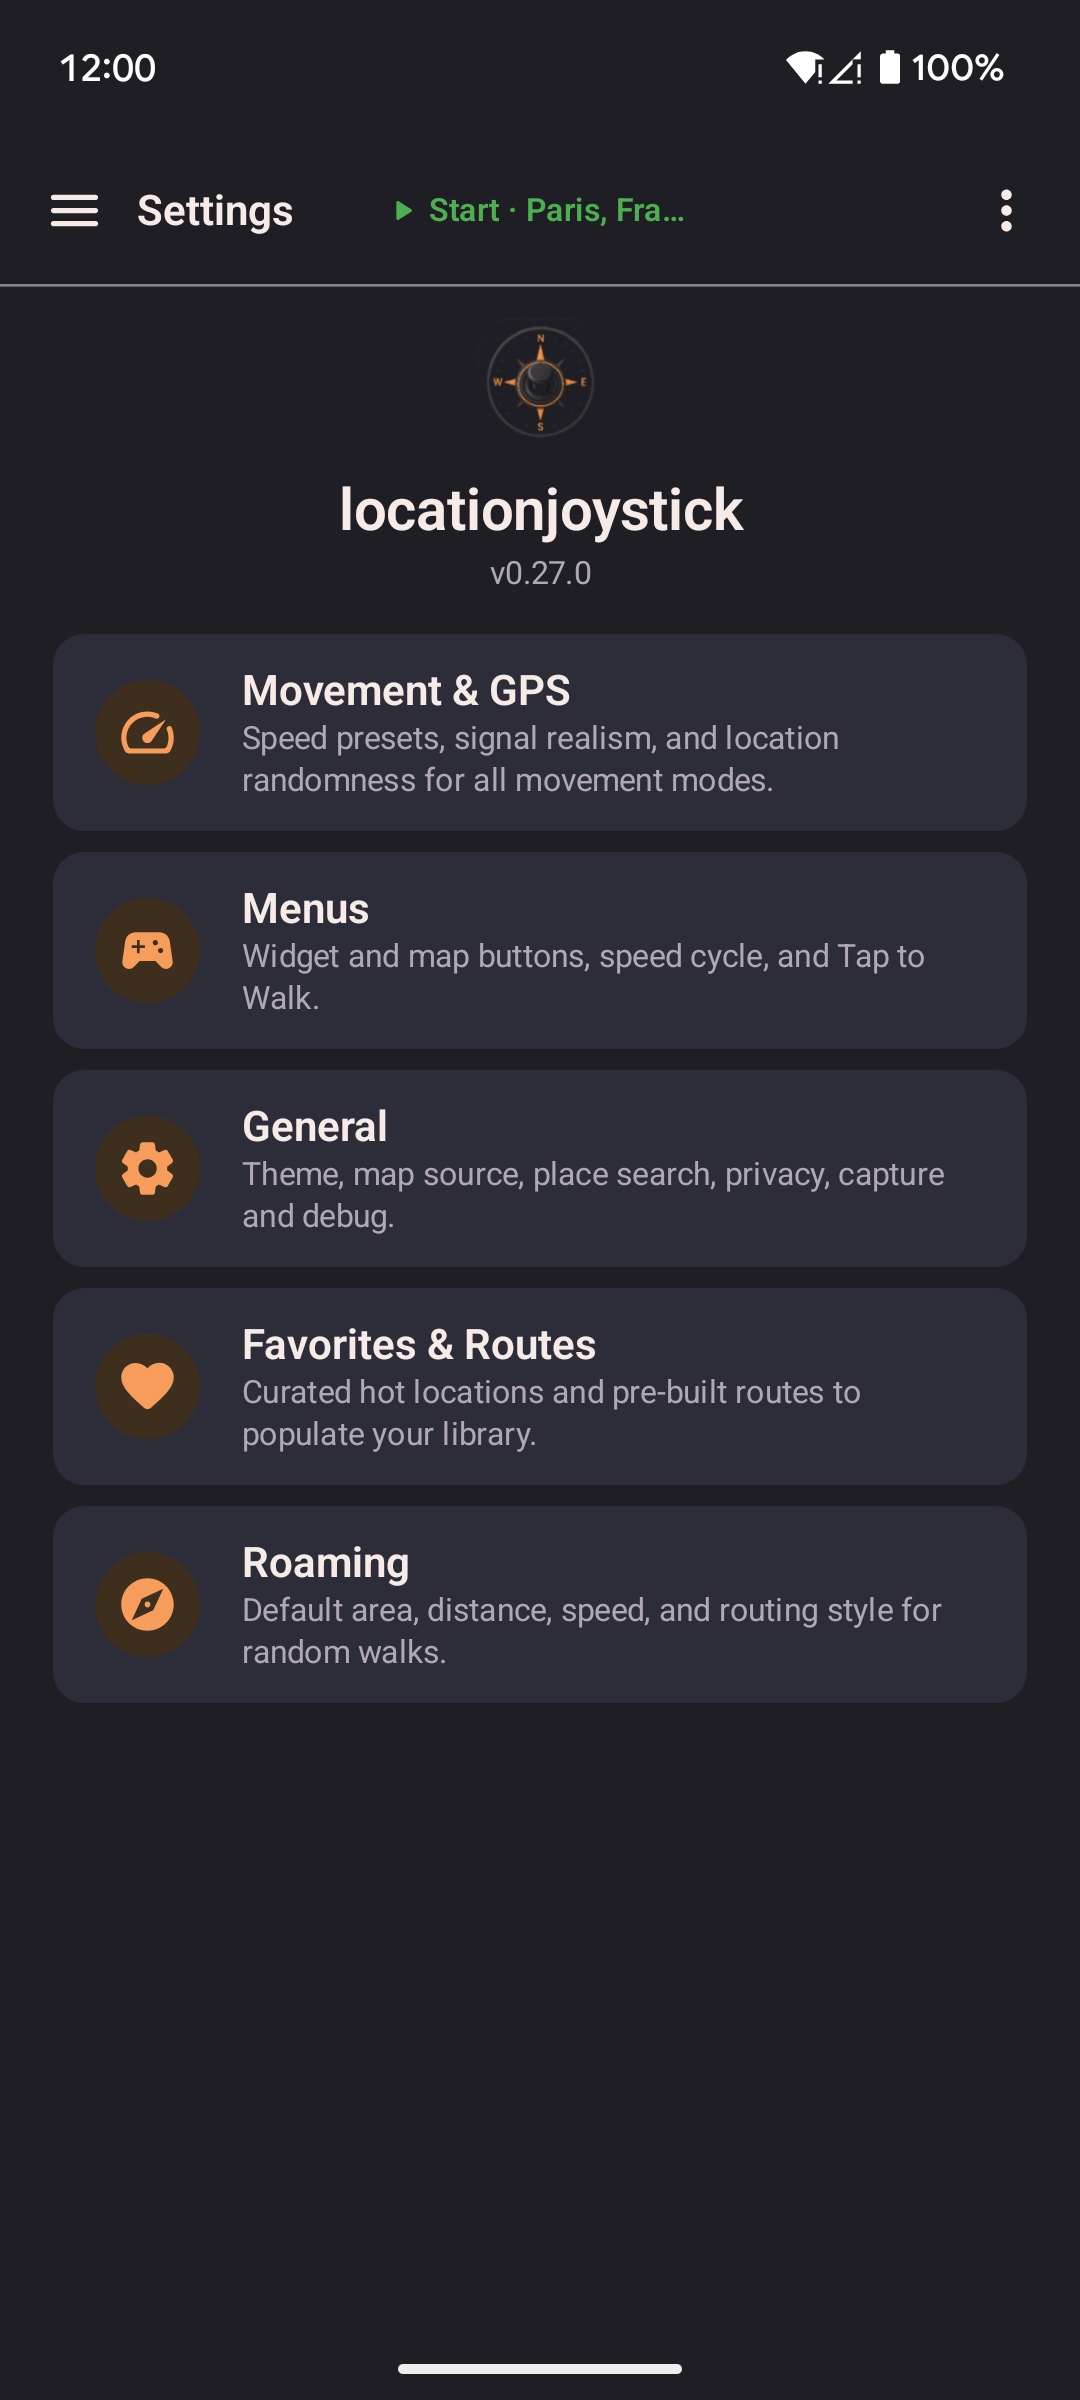
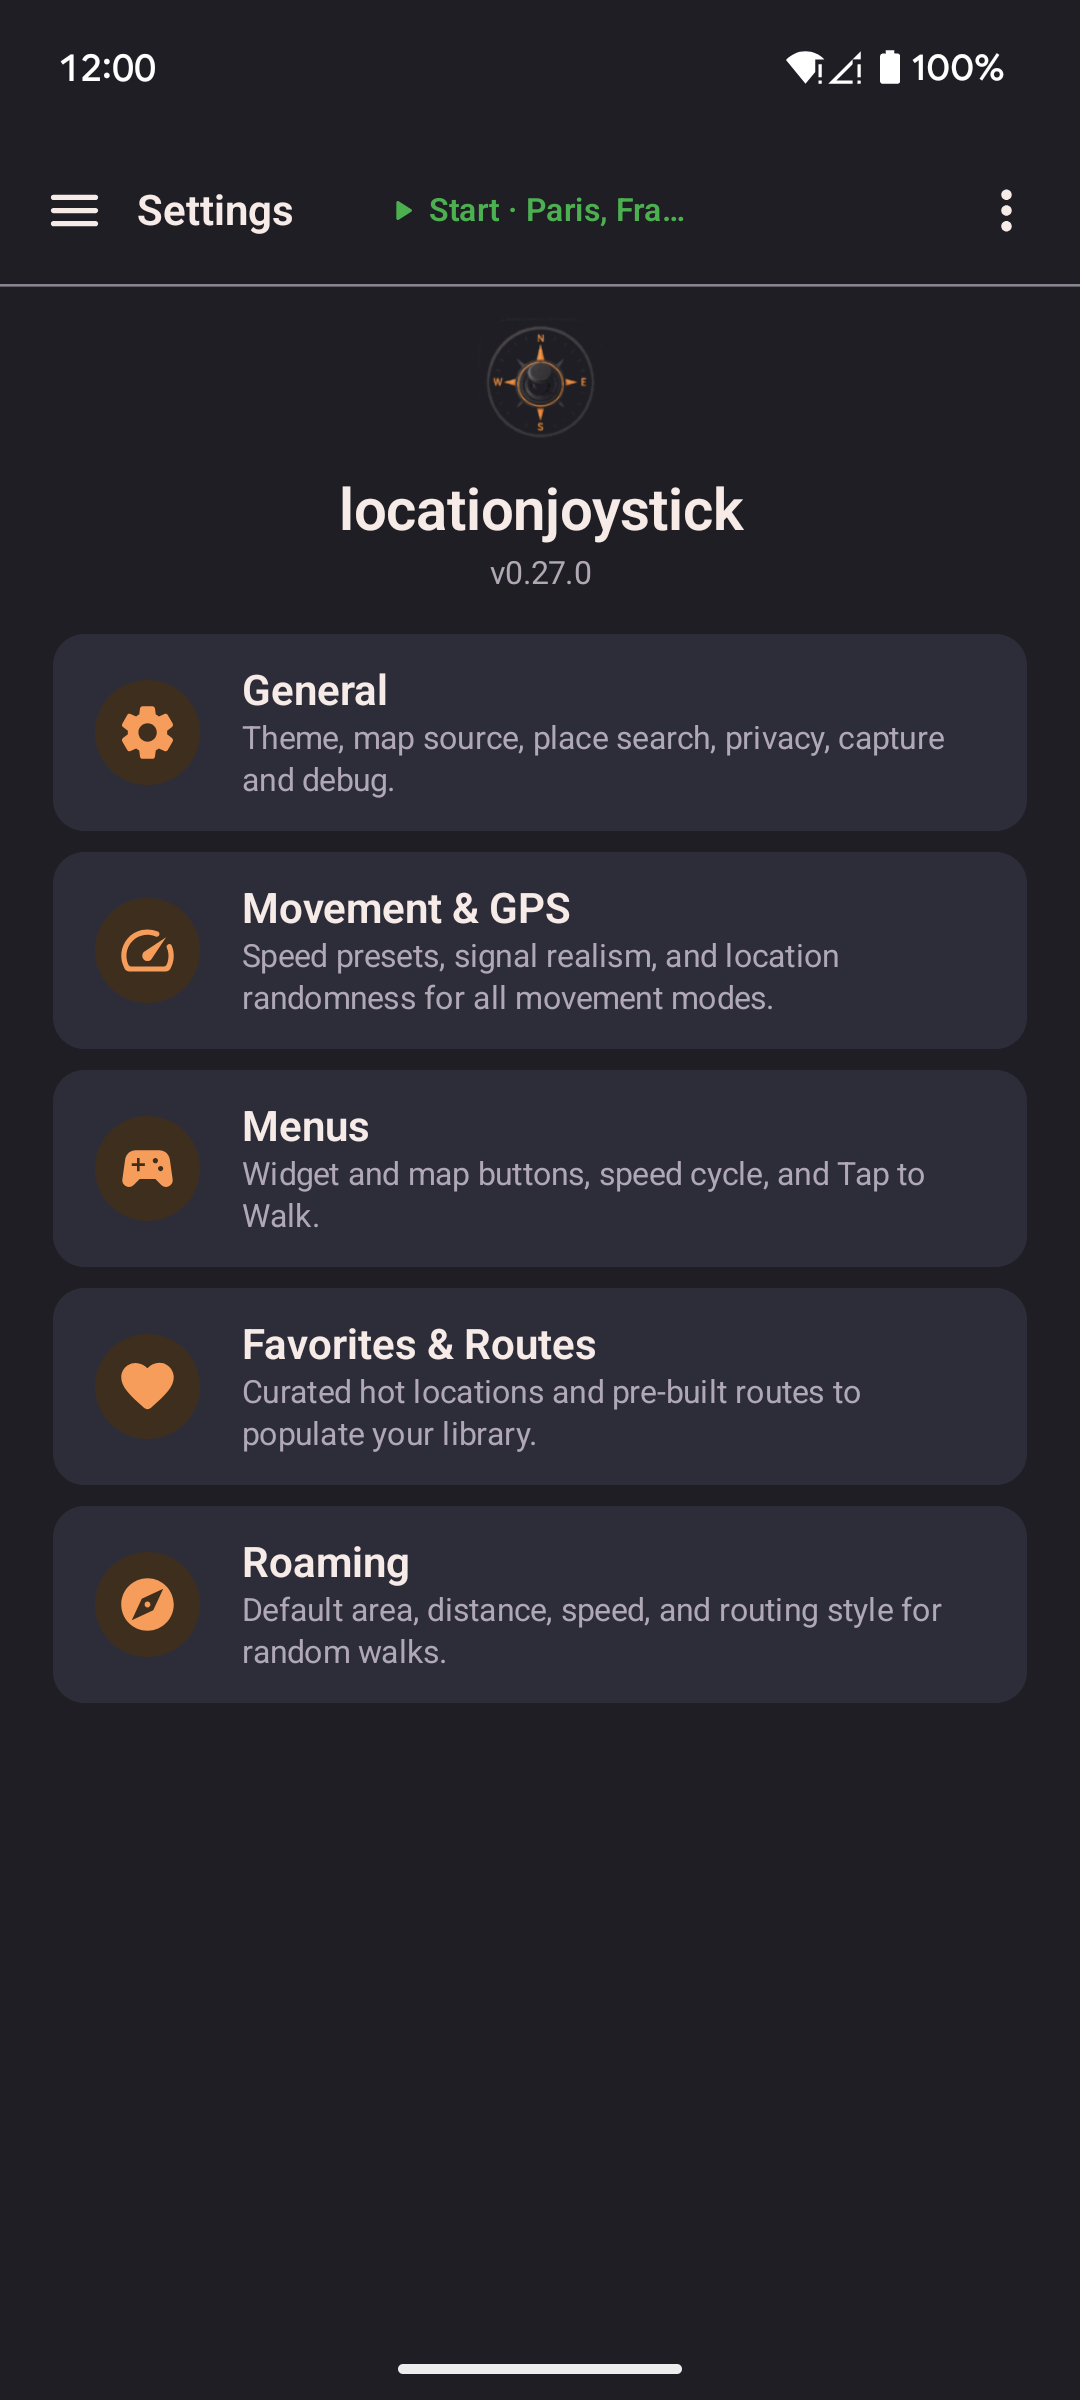
fix(settings): show General first in settings hub
Hub order is now General, Movement & GPS, Menus, Favorites & Routes,
Roaming. Wiki settings page and the step 05 screenshots follow the same
order. Adds a smoke test that pins the card order.

diff --git a/docs/wiki/settings.html b/docs/wiki/settings.html
@@ -31,6 +31,62 @@
     </aside>
     <p>Every setting, grouped as in the app. Export, import, and reset are on <a href="backup-transfer.html">Backup &amp; Transfer</a>. For permission problems, see <a href="troubleshooting.html">Troubleshooting</a>.</p>
 
+    <h2 id="general">General</h2>
+
+    <h3 id="game-setup">Game setup</h3>
+
+    <h4 class="item" id="game-setup-choose-your-game">Choose your game</h4>
+    <p><strong>Default:</strong> Default, or the setup you picked during first setup</p>
+    <p>Hides the features your game does not need. Pick Default, Pokémon Go or Pikmin Bloom. See <a href="game-setup.html">Game setup</a>.</p>
+
+    <h3 id="appearance">Appearance</h3>
+
+    <h4 class="item" id="appearance-light-mode">Light mode</h4>
+    <p><strong>Default:</strong> Off</p>
+    <p>Switches the app and widget lists from dark to bright. Overlay buttons stay dark.</p>
+
+    <h3 id="map-source">Map source</h3>
+
+    <h4 class="item" id="map-source-map-source">Map source</h4>
+    <p><strong>Default:</strong> OpenStreetMap</p>
+    <p>OpenStreetMap or Amap (高德). Amap is faster in mainland China. The app corrects its coordinate shift automatically.</p>
+
+    <h3 id="place-search">Place search</h3>
+    <p>At least one service must stay on. If one cannot be reached, the app tries the next one that is on.</p>
+
+    <h4 class="item" id="place-search-nominatim-openstreetmap">Nominatim (OpenStreetMap)</h4>
+    <p><strong>Default:</strong> On</p>
+    <p>The main search service. Turn it off if it is blocked where you are. A service that fails is skipped for 10 minutes.</p>
+    <h4 class="item" id="place-search-photon-komoot">Photon (Komoot)</h4>
+    <p><strong>Default:</strong> On</p>
+    <p>The backup search service. Works well from mainland China.</p>
+
+    <h3 id="privacy-menus">Privacy</h3>
+
+    <h4 class="item" id="hide-teleport">Hide teleport features</h4>
+    <p><strong>Default:</strong> Off</p>
+    <p>Removes every "jump to location" option: map, favorites, routes, Group Sync, and paste. Routes walk to the first stop instead.</p>
+    <h4 class="item" id="hide-widget">Hide floating widget</h4>
+    <p><strong>Default:</strong> Off</p>
+    <p>Keeps the widget button off the screen while spoofing is on. Other overlays keep working.</p>
+    <h4 class="item" id="hide-notification">Hide notification icon</h4>
+    <p><strong>Default:</strong> Off</p>
+    <p>Removes the "Mock location active" status bar icon. The notification stays in the shade (Android requires it).</p>
+    <h4 class="item" id="quick-walk-setting">Floating map quick walk</h4>
+    <p><strong>Default:</strong> Off</p>
+    <p>A tap on the floating map walks there at once, with no popup. See <a href="overlays.html#floating-map-quick-walk">Overlays</a>.</p>
+
+    <h3 id="capture">Capture</h3>
+    <p>Capture setup, the on/off switch, the browser choice, and the app to open after a map link. See <a href="capture.html#set-up-capture">Capture</a> for each step.</p>
+
+    <section class="has-shot">
+    <h3 id="debug-stats">Debug stats</h3>
+    <aside class="shot" id="debug-stats-shot">
+      <img class="phone-shot" src="screenshots/18_debug_stats.png" alt="Debug stats shown in the floating widget panel">
+    </aside>
+      <p>Shows coordinates, speed, altitude, accuracy, heading, and update rate in the expanded widget. Off by default.</p>
+    </section>
+
     <h2 id="speed-profiles">Movement &amp; GPS</h2>
 
     <h3 id="speed-profiles-list">Speed profiles</h3>
@@ -112,62 +168,6 @@
     <h4 class="item" id="location-memory-remember-last-location">Remember last location</h4>
     <p><strong>Default:</strong> On</p>
     <p>Restores your last fake position when you reopen the app. Starts from your real location if nothing is saved.</p>
-    </section>
-
-    <h2 id="general">General</h2>
-
-    <h3 id="game-setup">Game setup</h3>
-
-    <h4 class="item" id="game-setup-choose-your-game">Choose your game</h4>
-    <p><strong>Default:</strong> Default, or the setup you picked during first setup</p>
-    <p>Hides the features your game does not need. Pick Default, Pokémon Go or Pikmin Bloom. See <a href="game-setup.html">Game setup</a>.</p>
-
-    <h3 id="appearance">Appearance</h3>
-
-    <h4 class="item" id="appearance-light-mode">Light mode</h4>
-    <p><strong>Default:</strong> Off</p>
-    <p>Switches the app and widget lists from dark to bright. Overlay buttons stay dark.</p>
-
-    <h3 id="map-source">Map source</h3>
-
-    <h4 class="item" id="map-source-map-source">Map source</h4>
-    <p><strong>Default:</strong> OpenStreetMap</p>
-    <p>OpenStreetMap or Amap (高德). Amap is faster in mainland China. The app corrects its coordinate shift automatically.</p>
-
-    <h3 id="place-search">Place search</h3>
-    <p>At least one service must stay on. If one cannot be reached, the app tries the next one that is on.</p>
-
-    <h4 class="item" id="place-search-nominatim-openstreetmap">Nominatim (OpenStreetMap)</h4>
-    <p><strong>Default:</strong> On</p>
-    <p>The main search service. Turn it off if it is blocked where you are. A service that fails is skipped for 10 minutes.</p>
-    <h4 class="item" id="place-search-photon-komoot">Photon (Komoot)</h4>
-    <p><strong>Default:</strong> On</p>
-    <p>The backup search service. Works well from mainland China.</p>
-
-    <h3 id="privacy-menus">Privacy</h3>
-
-    <h4 class="item" id="hide-teleport">Hide teleport features</h4>
-    <p><strong>Default:</strong> Off</p>
-    <p>Removes every "jump to location" option: map, favorites, routes, Group Sync, and paste. Routes walk to the first stop instead.</p>
-    <h4 class="item" id="hide-widget">Hide floating widget</h4>
-    <p><strong>Default:</strong> Off</p>
-    <p>Keeps the widget button off the screen while spoofing is on. Other overlays keep working.</p>
-    <h4 class="item" id="hide-notification">Hide notification icon</h4>
-    <p><strong>Default:</strong> Off</p>
-    <p>Removes the "Mock location active" status bar icon. The notification stays in the shade (Android requires it).</p>
-    <h4 class="item" id="quick-walk-setting">Floating map quick walk</h4>
-    <p><strong>Default:</strong> Off</p>
-    <p>A tap on the floating map walks there at once, with no popup. See <a href="overlays.html#floating-map-quick-walk">Overlays</a>.</p>
-
-    <h3 id="capture">Capture</h3>
-    <p>Capture setup, the on/off switch, the browser choice, and the app to open after a map link. See <a href="capture.html#set-up-capture">Capture</a> for each step.</p>
-
-    <section class="has-shot">
-    <h3 id="debug-stats">Debug stats</h3>
-    <aside class="shot" id="debug-stats-shot">
-      <img class="phone-shot" src="screenshots/18_debug_stats.png" alt="Debug stats shown in the floating widget panel">
-    </aside>
-      <p>Shows coordinates, speed, altitude, accuracy, heading, and update rate in the expanded widget. Off by default.</p>
     </section>
 
     <h2 id="menus">Menus</h2>

diff --git a/feature/settings/impl/src/main/kotlin/com/locationjoystick/feature/settings/impl/SettingsScreen.kt b/feature/settings/impl/src/main/kotlin/com/locationjoystick/feature/settings/impl/SettingsScreen.kt
@@ -811,6 +811,12 @@ private fun SettingsHubScreen(
             cards =
                 listOf(
                     DestinationCardSpec(
+                        icon = LjIcons.Settings,
+                        title = stringResource(R.string.settings_hub_general),
+                        description = stringResource(R.string.settings_hub_general_desc),
+                        onClick = { onNavigate(SettingsSection.GENERAL) },
+                    ),
+                    DestinationCardSpec(
                         icon = LjIcons.Speed,
                         title = stringResource(R.string.settings_hub_movement_and_gps),
                         description = stringResource(R.string.settings_hub_movement_and_gps_desc),
@@ -821,12 +827,6 @@ private fun SettingsHubScreen(
                         title = stringResource(R.string.settings_hub_menus),
                         description = stringResource(R.string.settings_hub_menus_desc),
                         onClick = { onNavigate(SettingsSection.MENUS) },
-                    ),
-                    DestinationCardSpec(
-                        icon = LjIcons.Settings,
-                        title = stringResource(R.string.settings_hub_general),
-                        description = stringResource(R.string.settings_hub_general_desc),
-                        onClick = { onNavigate(SettingsSection.GENERAL) },
                     ),
                     DestinationCardSpec(
                         icon = LjIcons.Favorite,

diff --git a/app/src/androidTest/kotlin/com/locationjoystick/app/smoke/SettingsSmokeTest.kt b/app/src/androidTest/kotlin/com/locationjoystick/app/smoke/SettingsSmokeTest.kt
@@ -6,6 +6,7 @@ import androidx.compose.ui.test.onNodeWithText
 import androidx.compose.ui.test.performClick
 import androidx.compose.ui.test.performScrollTo
 import dagger.hilt.android.testing.HiltAndroidTest
+import org.junit.Assert.assertEquals
 import org.junit.Before
 import org.junit.Test
 
@@ -21,6 +22,19 @@ class SettingsSmokeTest : BaseSmokeTest() {
     @Test
     fun settings_screen_loads() {
         composeRule.onNodeWithText("Movement & GPS").assertIsDisplayed()
+    }
+
+    @Test
+    fun settings_hub_order_is_general_gps_menus_favorites_roaming() {
+        val labels = listOf("General", "Movement & GPS", "Menus", "Favorites & Routes", "Roaming")
+        val tops =
+            labels.map {
+                composeRule
+                    .onNodeWithText(it)
+                    .fetchSemanticsNode()
+                    .boundsInRoot.top
+            }
+        assertEquals("hub card order", tops.sorted(), tops)
     }
 
     @Test
